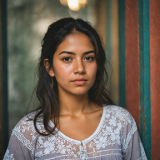
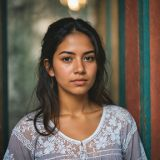
resizing images

diff --git a/src/components/MainLayout/index.tsx b/src/components/MainLayout/index.tsx
@@ -7,11 +7,11 @@ import { Layout, LayoutBody, LayoutContent, LayoutTop } from "./styles";
 type MainLayoutProps = {
   children: React.ReactNode;
   title: string;
-  btn?: React.ReactNode;
+  btnSlot?: React.ReactNode;
 };
 
 const MainLayout = (props: MainLayoutProps) => {
-  const { children, title, btn } = props;
+  const { children, title, btnSlot } = props;
   const theme = useTheme();
   const isMobile = useMediaQuery(theme.breakpoints.down("sm"));
 
@@ -26,7 +26,7 @@ const MainLayout = (props: MainLayoutProps) => {
           >
             {title}
           </Typography>
-          {btn && <Box sx={{ mr: 4 }}>{btn}</Box>}
+          {btnSlot && <Box sx={{ mr: 4 }}>{btnSlot}</Box>}
           <LangSwitcher />
         </LayoutTop>
         <LayoutBody>{children}</LayoutBody>

diff --git a/src/ui/UserCard/index.tsx b/src/ui/UserCard/index.tsx
@@ -13,7 +13,7 @@ const UserCard = (props: UserCardProps): JSX.Element => {
   const { avatar, name, category } = props;
   return (
     <Card>
-      <img src={getImageLink(avatar)} alt="" />
+      <img src={getImageLink(avatar)} alt="" loading="lazy" />
       <Box>
         <Typography variant="body1" sx={{ fontWeight: 700 }}>
           {name}
